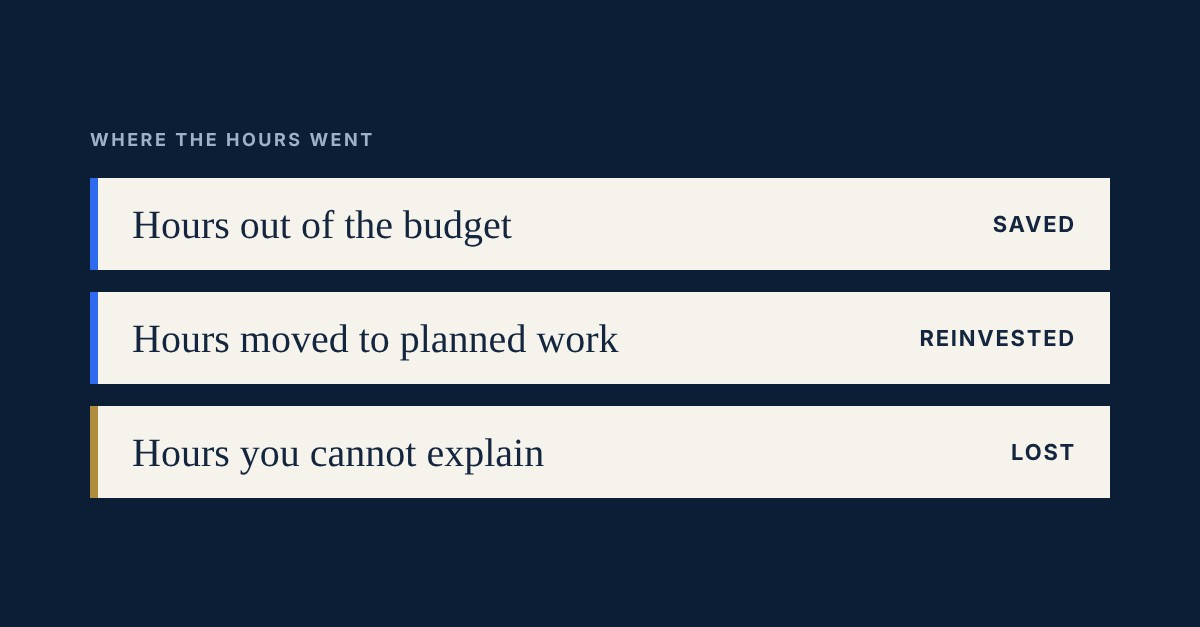
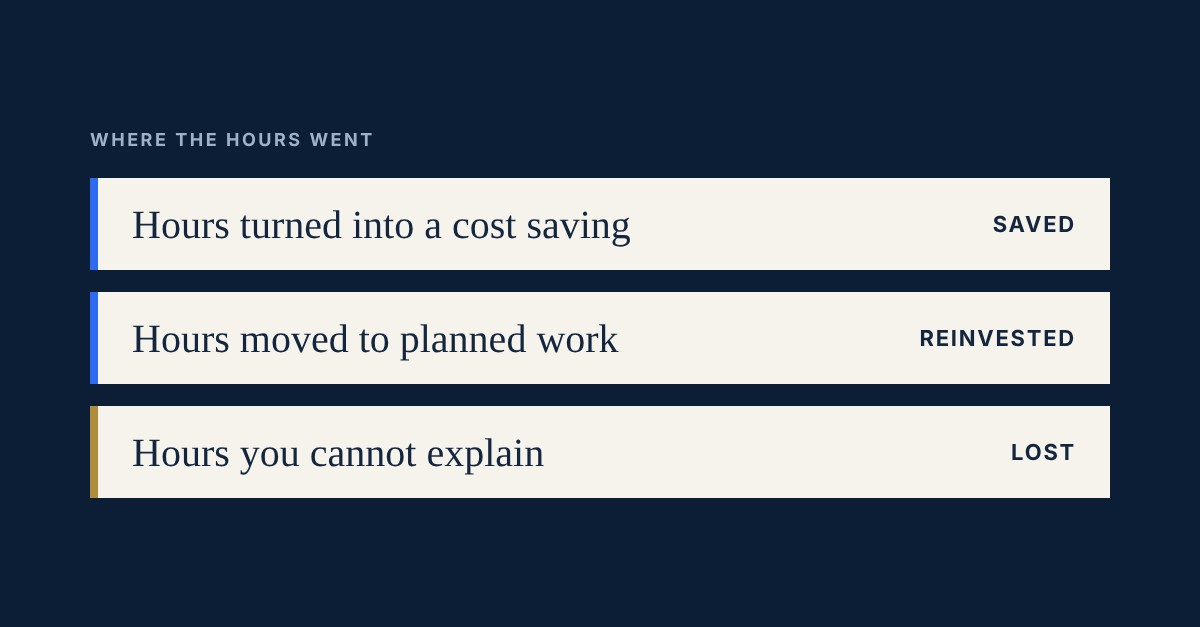
Article 3 draft: review fixes F1 to F4
Claude-Session: https://claude.ai/code/session_01JedePw4pbBaJB5BPxPMryK

Changed region(s): [[0.185, 0.3333, 0.5242, 0.3939]]

diff --git a/articles/where-freed-hours-go/index.html b/articles/where-freed-hours-go/index.html
@@ -191,8 +191,6 @@
 <p class="byline"><span class="who">By Gopakumar Menon, CA, CPA, CTP</span> <span><span class="sep first">&middot;</span><time datetime="2026-11-18">18 November 2026</time></span> <span><span class="sep">&middot;</span>3 min read</span></p>
 </div>
 <figure class="hero" style="margin:0 0 28px"><img src="hero.png" width="1080" height="1350" alt="Your reconciliation only takes a few minutes. So why is your team still busy?" style="display:block;width:100%;max-width:480px;height:auto;margin:0 auto;border-radius:6px"></figure>
-<p>Your reconciliation only takes a few minutes.</p>
-<p>So why is your team still busy?</p>
 <p class="tag">Illustrative example</p>
 <p>A Treasury team automates its daily bank reconciliation.</p>
 <p>Matching that took most of the morning now takes minutes.</p>
@@ -207,7 +205,7 @@
 <p>An hour for one analyst. Half an hour for another.</p>
 <p>No one plans what to do with half an hour.</p>
 <p>So it goes to whatever is nearest.</p>
-<p>The analyst does not trust the tool yet. She checks its matches again, by hand.</p>
+<p>The analyst does not trust the tool yet. She checks every match again, by hand, with no end date.</p>
 <p>The manager adds another tab to the daily cash report.</p>
 <p>The weekly meeting runs longer, because now there is room for it.</p>
 <p>Six months on, the team is just as busy.</p>
@@ -220,10 +218,10 @@
 <p>Everyone can see it. Including the analyst.</p>
 <p>Idle time does not stay neutral. The analyst wonders whether the role is next. Some people invent work to look busy. Others quietly switch off.</p>
 <p>Either way, the business pays for capacity and gets neither the saving nor the new work.</p>
-<p>The fix is simple and often skipped. Tell the person, before go live, what their time will move to.</p>
+<p>The fix is simple, and easy to skip. Tell the person, before go live, what their time will move to.</p>
 <p>If the new work is not ready, give the gap a purpose and an end date:</p>
 <ul class="dots">
-<li>Check the tool&rsquo;s matches against the bank statement while it beds in</li>
+<li>Check the tool&rsquo;s matches against the bank statement for a set period, then stop</li>
 <li>Train for the work that is coming</li>
 <li>Learn a colleague&rsquo;s role, so the team has cover</li>
 <li>Write down how the new process works, for the auditor</li>
@@ -238,7 +236,7 @@
 <p>A cost saving is a fair choice. Just call it a saving, not transformation.</p>
 <h2 id="check">Then check where it went</h2>
 <p>Record the hours before go live. Six months later, explain the difference.</p>
-<p>Hours out of the budget: saved.<br>Hours moved to planned work: reinvested.<br>Hours you cannot explain: lost.</p>
+<p>Hours turned into a cost saving: saved.<br>Hours moved to planned work: reinvested.<br>Hours you cannot explain: lost.</p>
 <p>And plan the training with the automation. Matching transactions and building a forecast are not the same skill.</p>
 <h2 id="board">The question for the Board</h2>
 <p>The debate is whether AI and automation take Finance jobs.</p>
